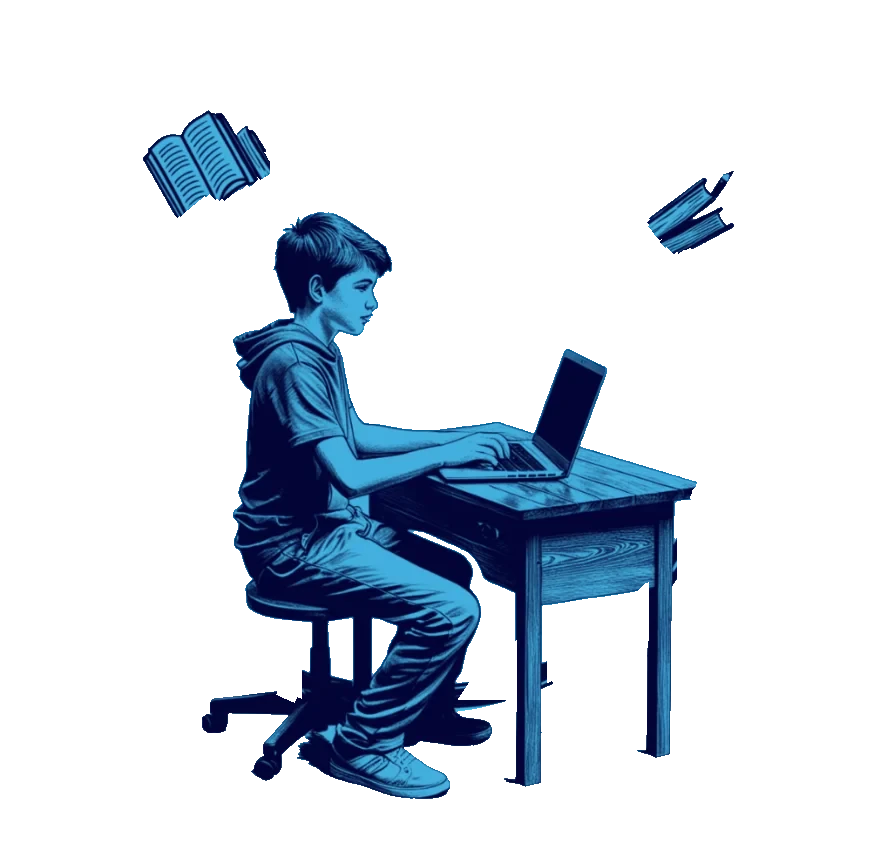
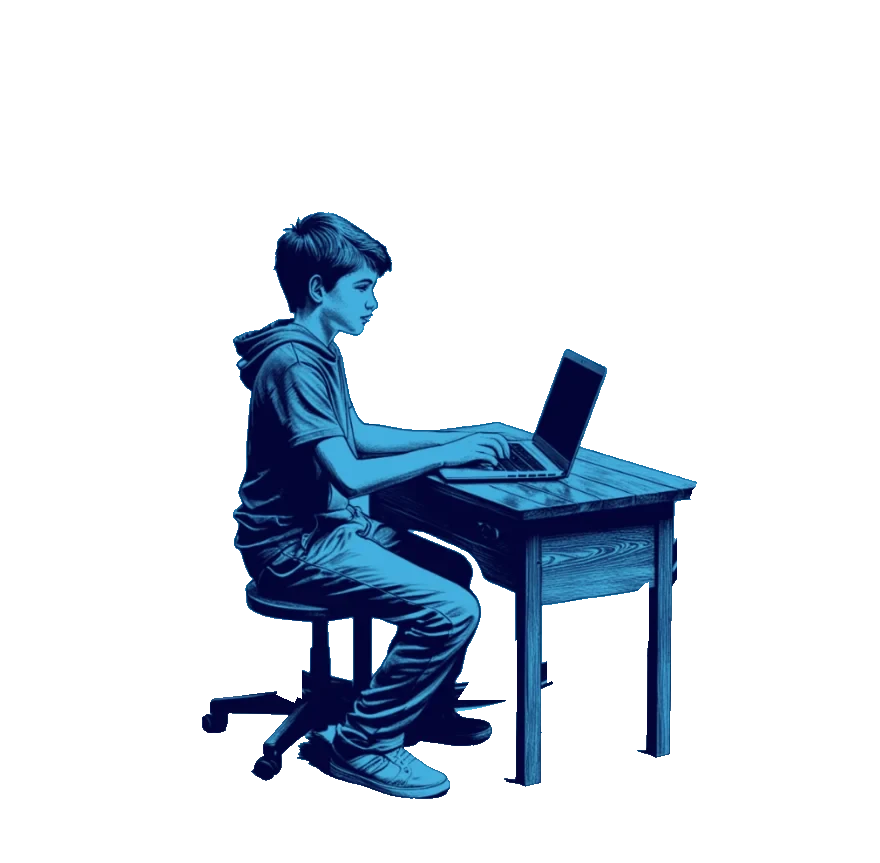
Update 248: home hero sketch without the two flying books
Claude-Session: https://claude.ai/code/session_019jwWYdrTturMMjiMEQw7Wv

Changed region(s): [[0.1534, 0.1205, 0.3068, 0.2711], [0.7364, 0.1808, 0.8284, 0.3013]]

diff --git a/scripts/hero-sketch/cut-boy.py b/scripts/hero-sketch/cut-boy.py
@@ -64,3 +64,9 @@ c0=np.array([44,62,176]);c1=np.array([29,40,120]);c2=np.array([15,23,71])
 t=np.clip(d/0.85,0,1)[...,None]
 gp=np.where(t<0.47,c0+(c1-c0)*(t/0.47),c1+(c2-c1)*((t-0.47)/0.53))
 prev=Image.fromarray(gp.astype(np.uint8)).convert('RGBA'); prev.alpha_composite(Image.fromarray(out)); prev.convert('RGB').save('cut/prev.png')
+
+# Update 248: the two flying books (separate pieces above the boy) are dropped as well
+lab3,n3=nd.label(out[...,3]>0); sz3=nd.sum(out[...,3]>0,lab3,range(1,n3+1)); main=int(np.argmax(sz3))+1
+cs3=nd.center_of_mass(out[...,3]>0,lab3,range(1,n3+1))
+out[np.isin(lab3,[i+1 for i,(y,x) in enumerate(cs3) if i+1!=main and y<300]),3]=0
+Image.fromarray(out).save('cut/boy-nobooks.png')
